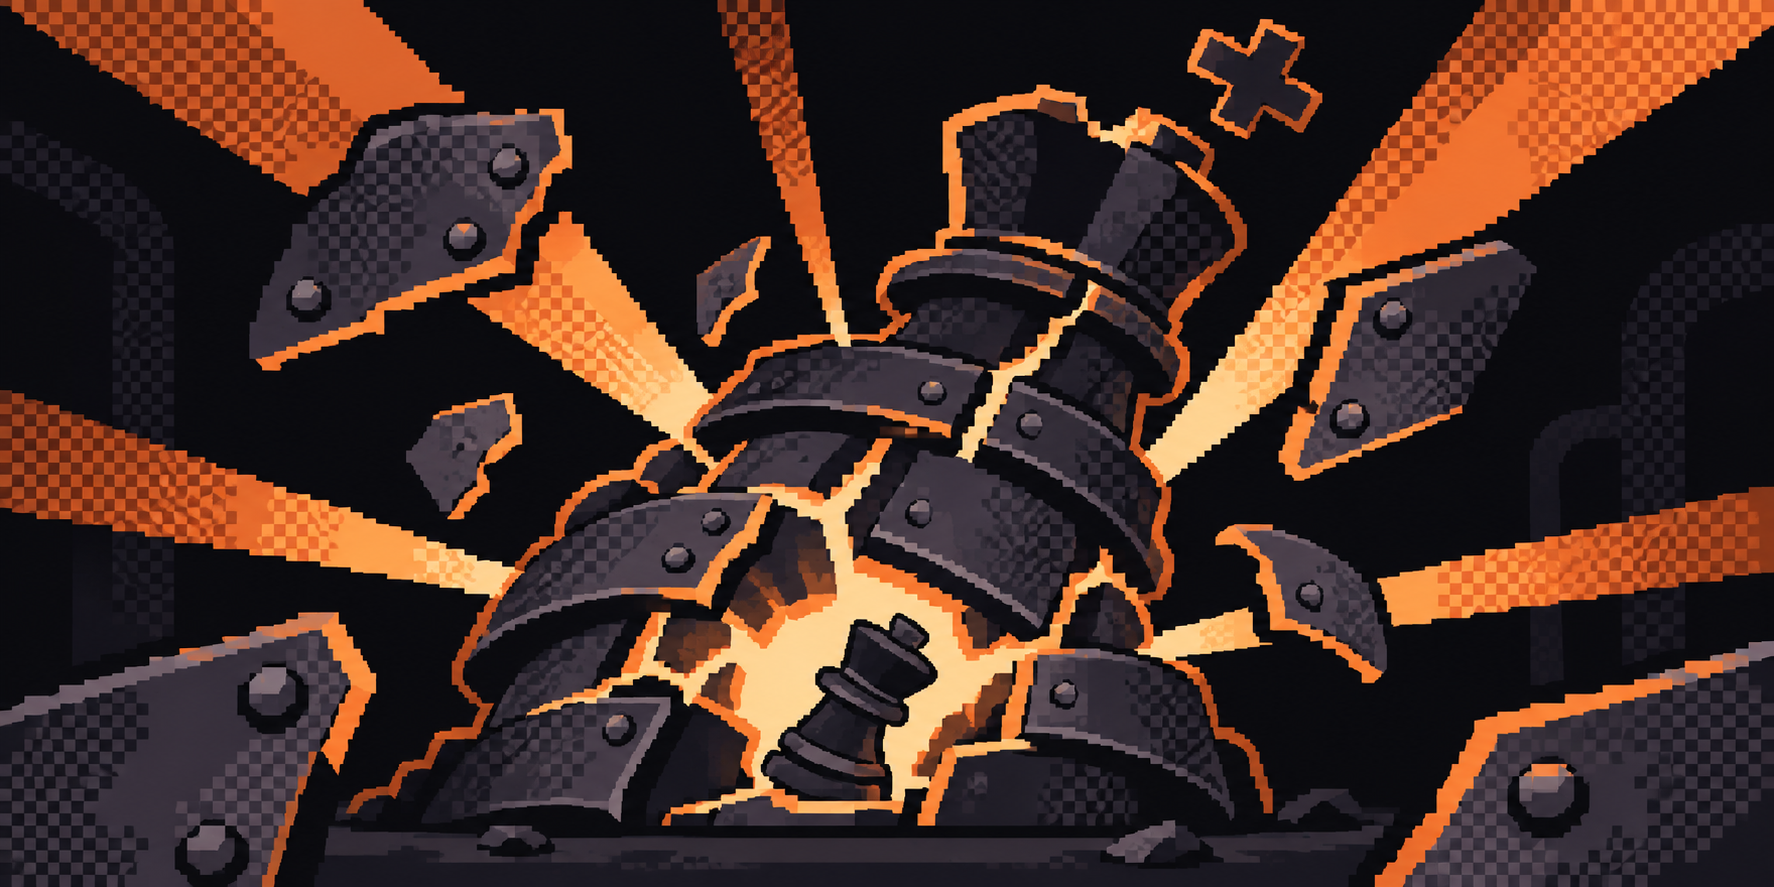
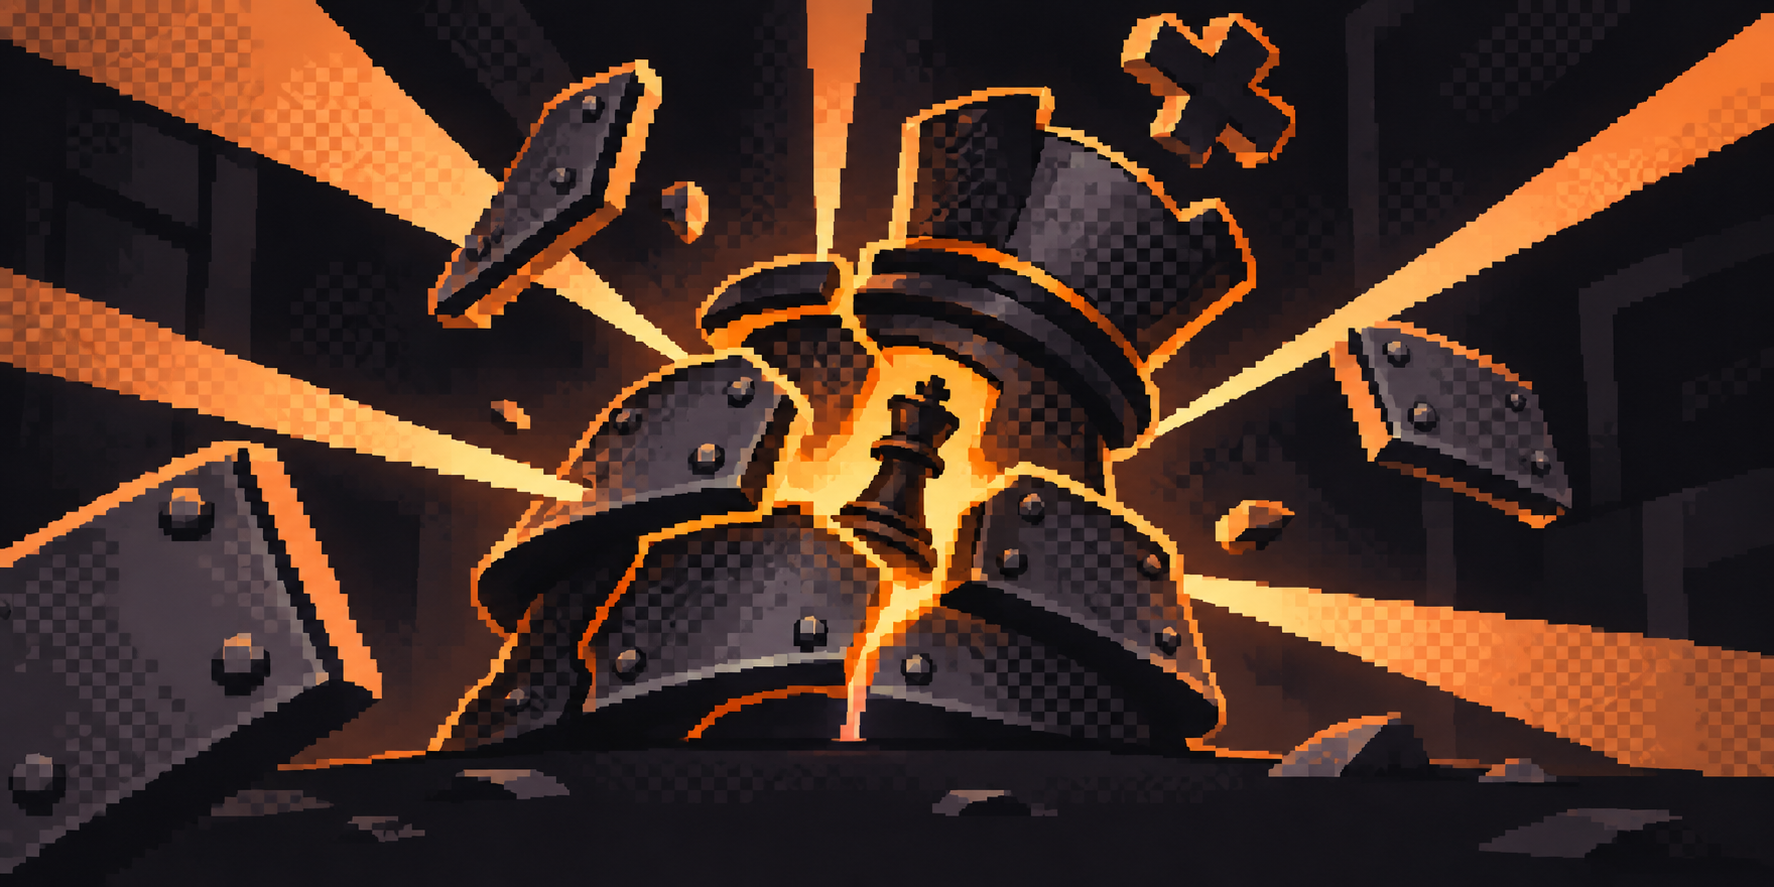
Boss-fall plate cut: final art (BF-01 done)
- 철갑 반장 격파 컷 완성본을 도트 원래 크기로 넣었습니다. 발주서의 다시 받기 표시를 풀었습니다.

Claude-Session: https://claude.ai/code/session_011jC4ZCDKW43H5FzLWnYVpe

diff --git a/tools/order/order_page.py b/tools/order/order_page.py
@@ -24,7 +24,7 @@ ATTACH = [
     ('⑤', '화풍 정답 「폰 둘」 — 컷 그림은 ② 대신 이것 (D-307)', 'build-res/order/E-03b-ending-3-source.png', 720),
 ]
 # 받았지만 화풍이 어긋나 다시 받는 그림 (D-307) — 파일이 있어도 「다시 받기」로 보인다
-REDO: set[str] = {"boss-fall-plate"}  # D-341: 5차 시안을 임시로 넣었지만 핵심이 글상자에 가려 한 번 더
+REDO: set[str] = set()
 
 
 def data_uri(path, width):
